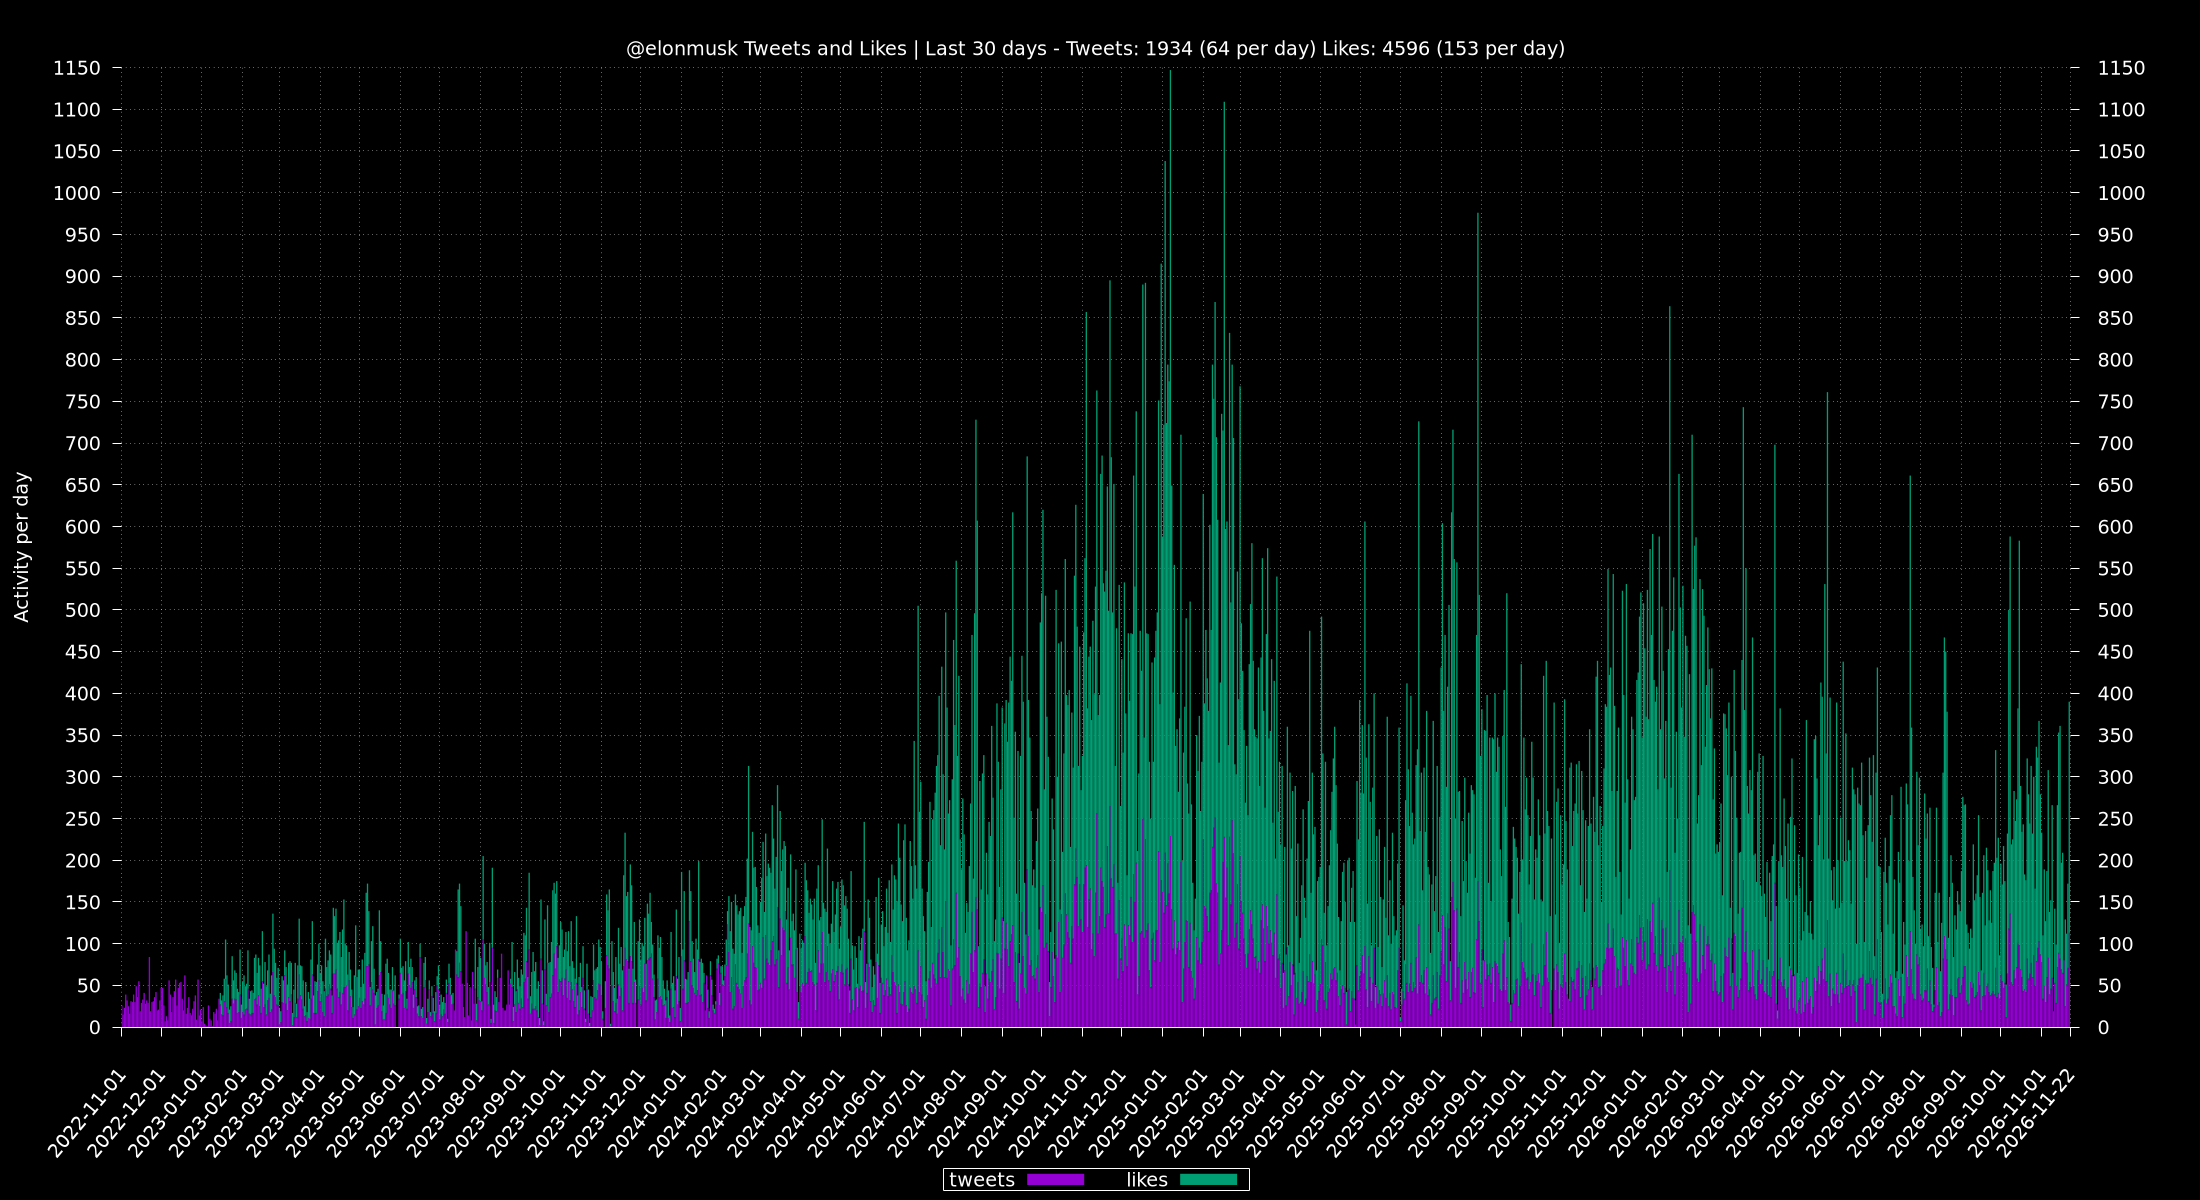
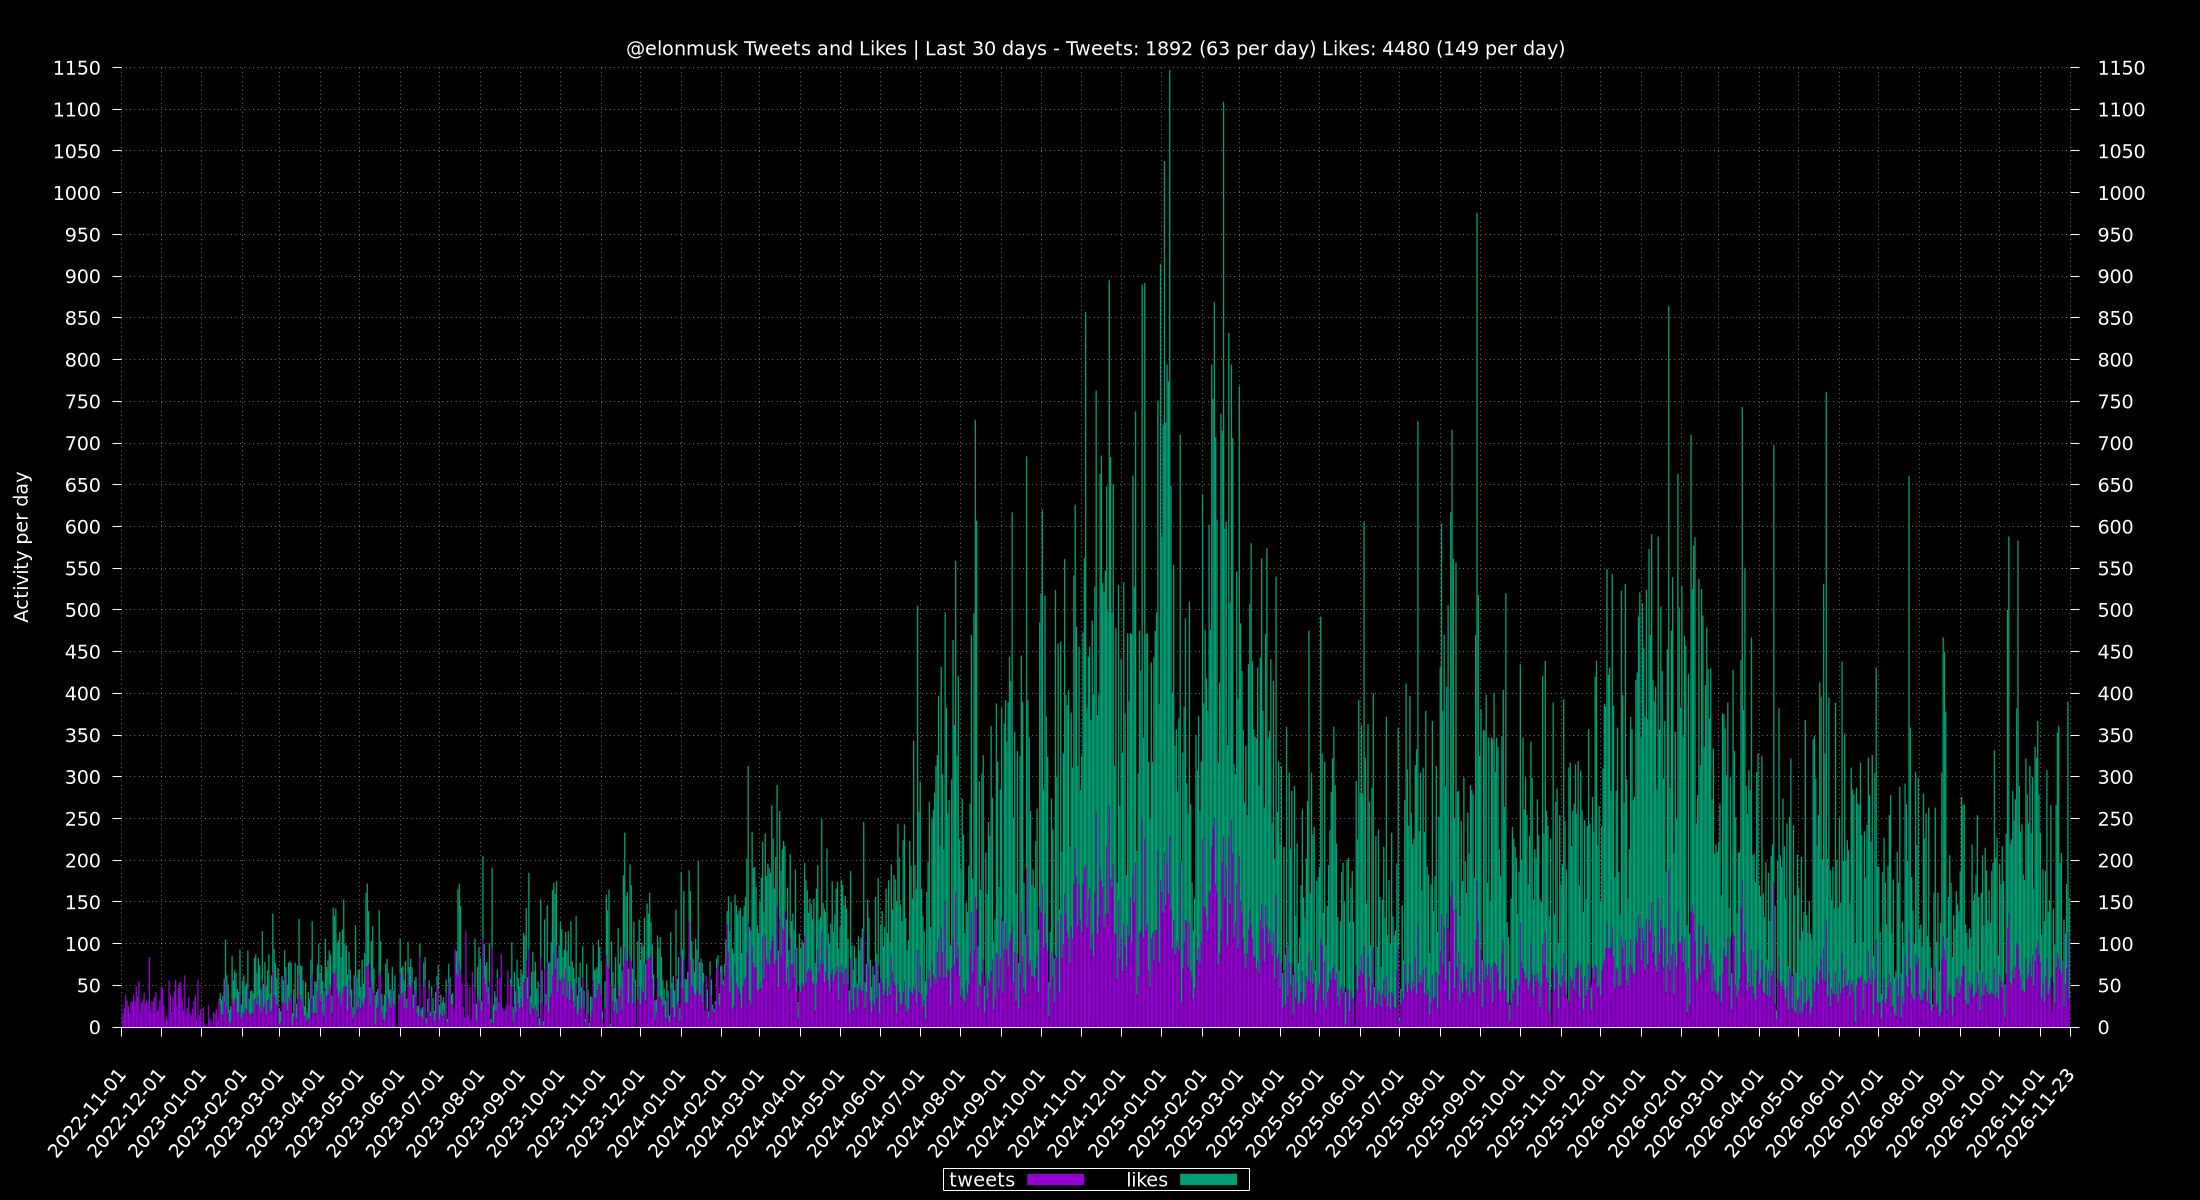
update via cron

diff --git a/totals/README.md b/totals/README.md
@@ -1,6 +1,6 @@
 ## Last 30 Days
-Tweets: 1998 (64 per day)\
-Likes: 4776 (154 per day)
+Tweets: 1969 (64 per day)\
+Likes: 4716 (152 per day)
 
 ## 24 Hours
 Max: [**341**](../misc/most-tweets_24-hr.csv) - From `2024-11-23 14:29:53 CST` To `2024-11-24 14:28:44 CST`
